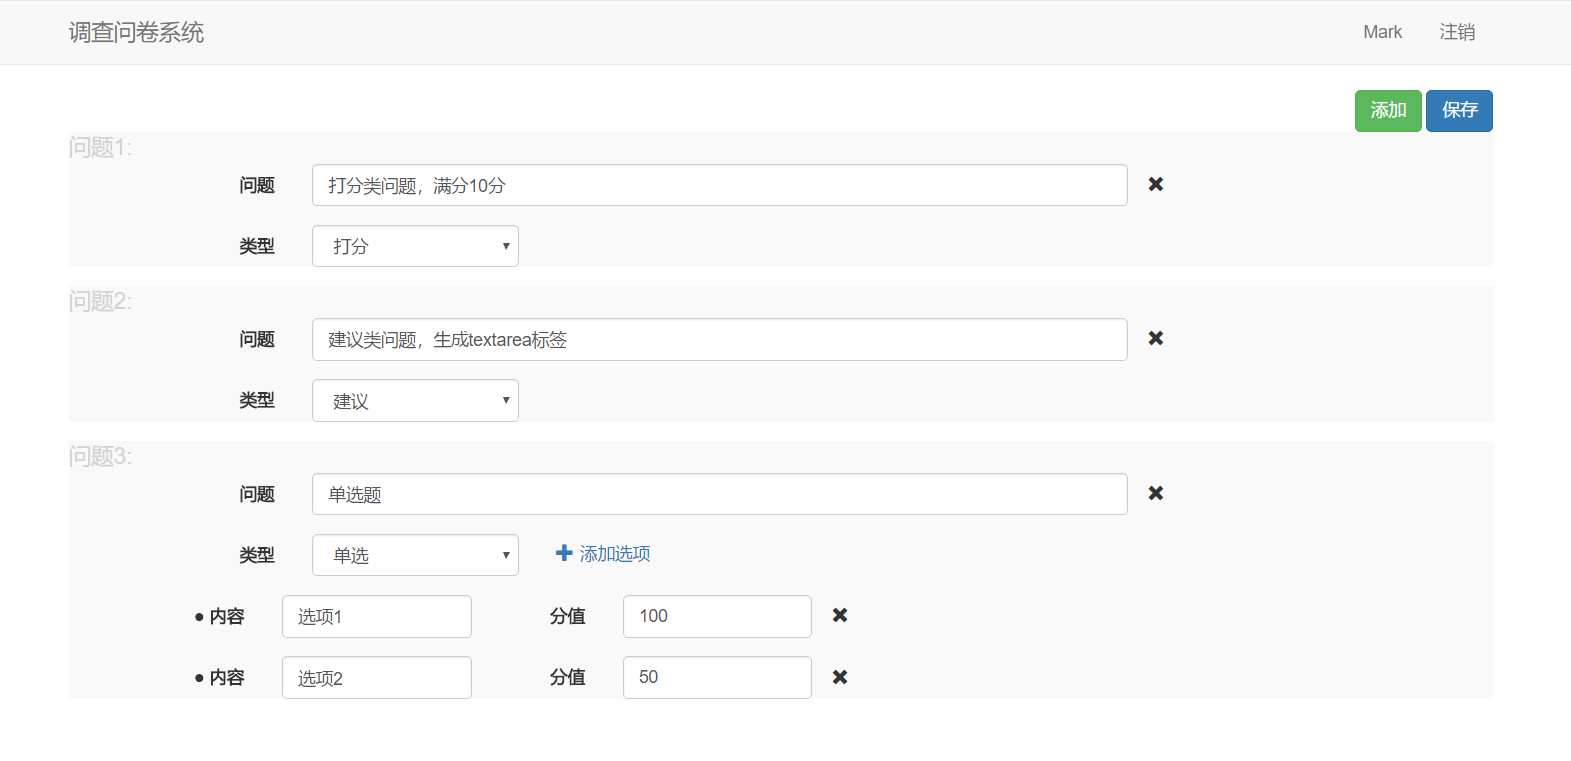
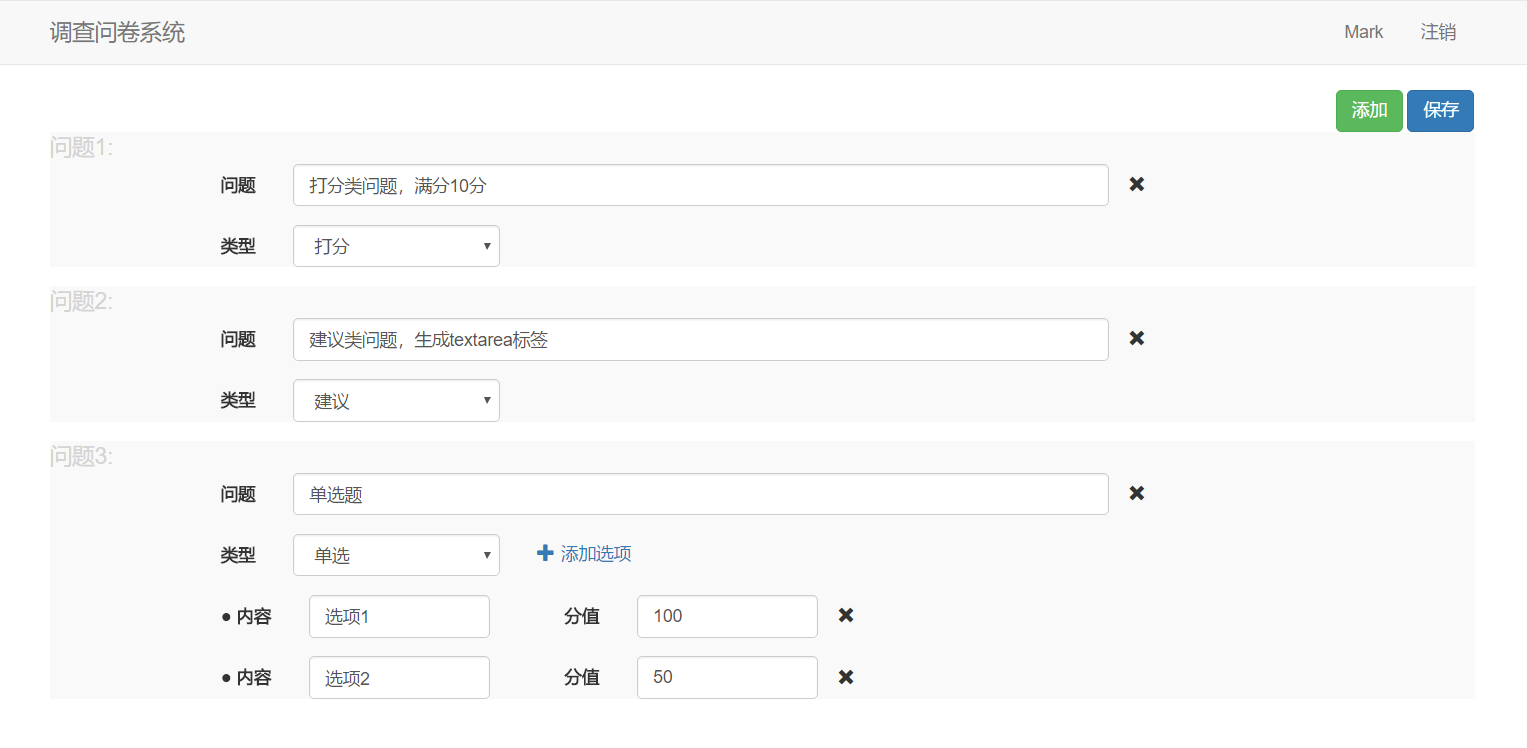
细节修改

diff --git a/app01/static/app01/css/edit.css b/app01/static/app01/css/edit.css
@@ -3,7 +3,7 @@
 }
 
 .questionItem ul {
-    margin-left: 40px;
+    margin-left: 80px;
 }
 
 .removeQue, .removeOpt {
